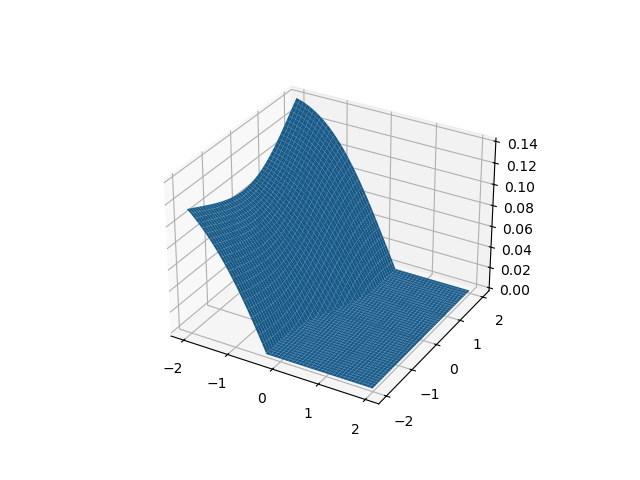
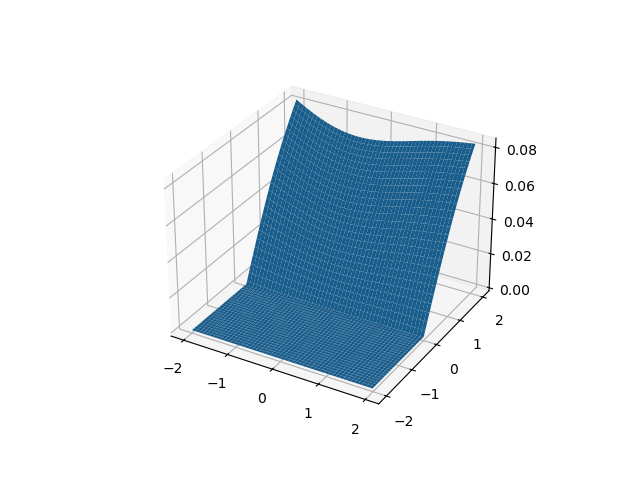
smaller tau

Changed region(s): [[0.25, 0.1875, 0.8438, 0.75], [0.3125, 0.3125, 0.3438, 0.3438], [0.25, 0.5312, 0.2812, 0.5625]]

diff --git a/trainer.py b/trainer.py
@@ -14,7 +14,7 @@ def train_lyap(data, model, device):
         state, deriv = state.to(device, dtype=torch.float32), deriv.to(device, dtype=torch.float32)
         zeros = torch.zeros_like(state)
         zero_val = model(zeros)
-        tau = 1 
+        tau = 1e-3 
         #state.requires_grad = True
 
         # Compute prediction error
